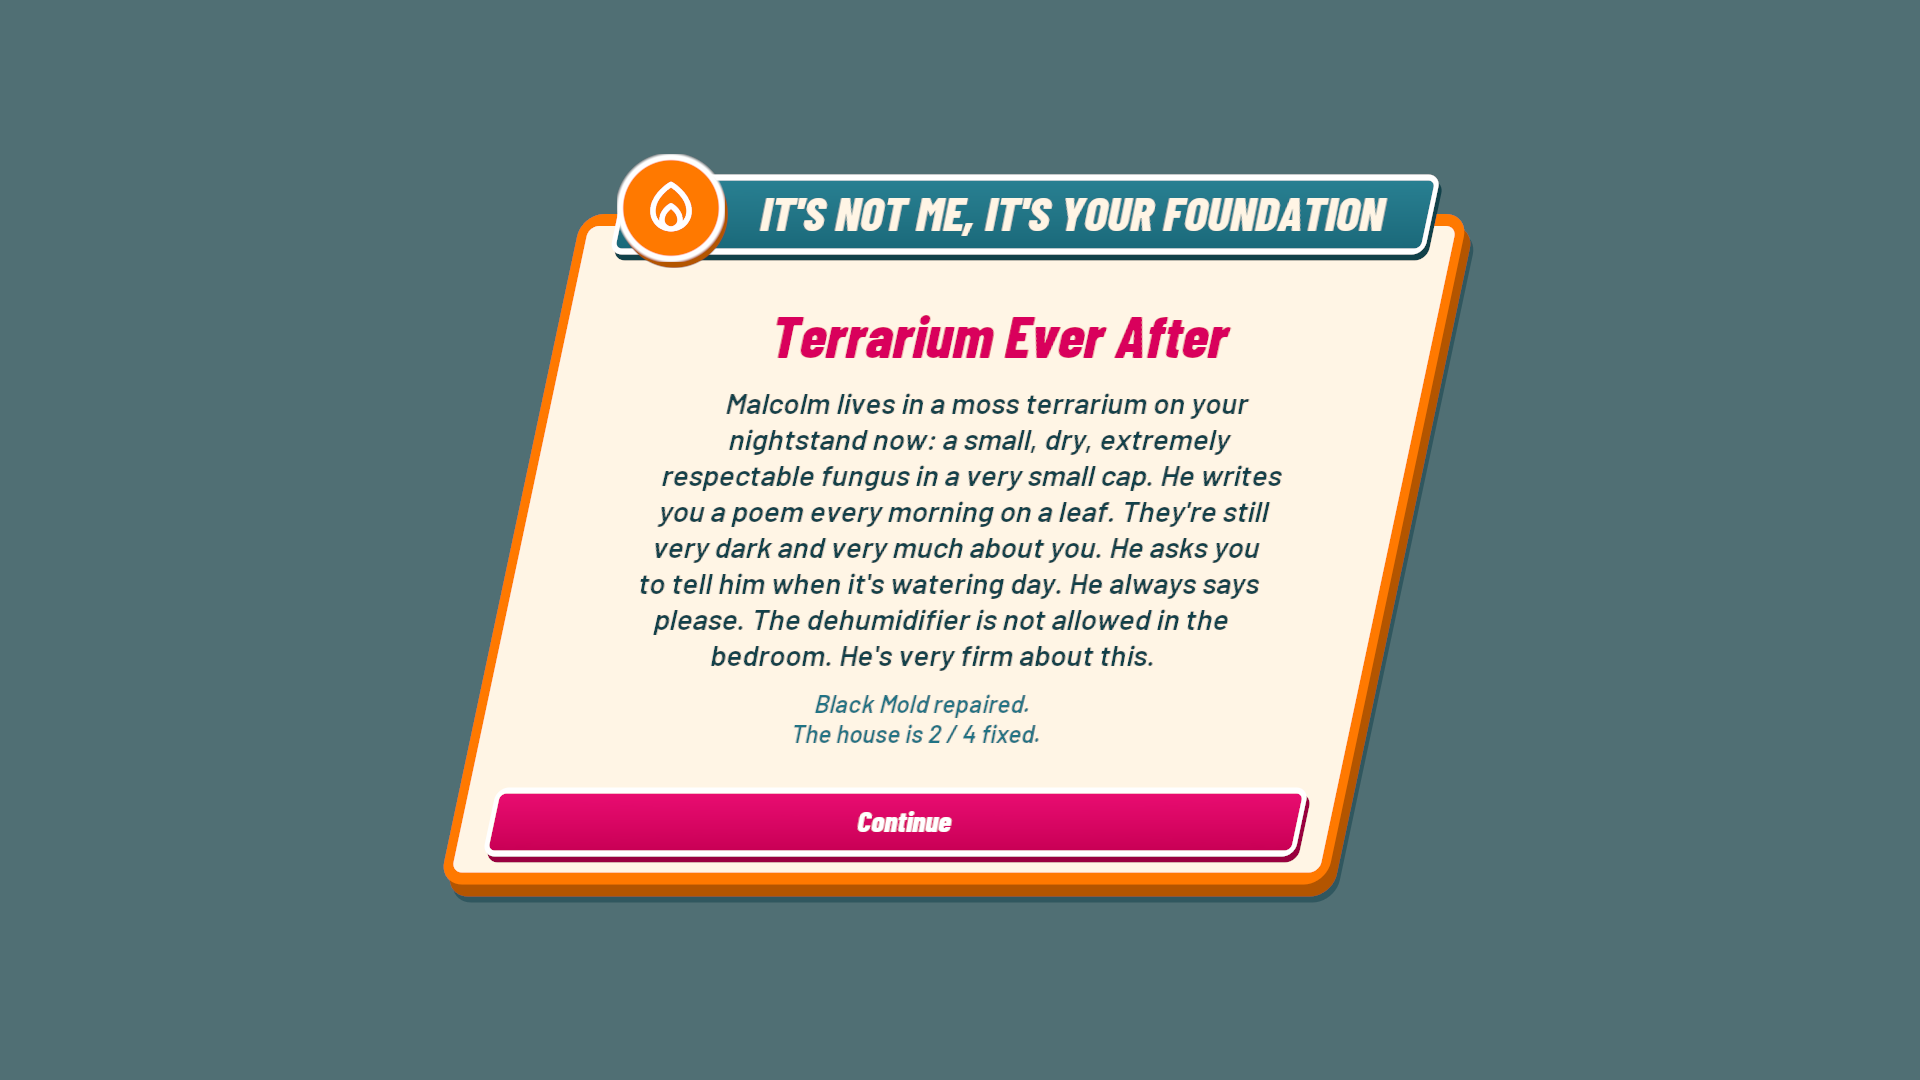
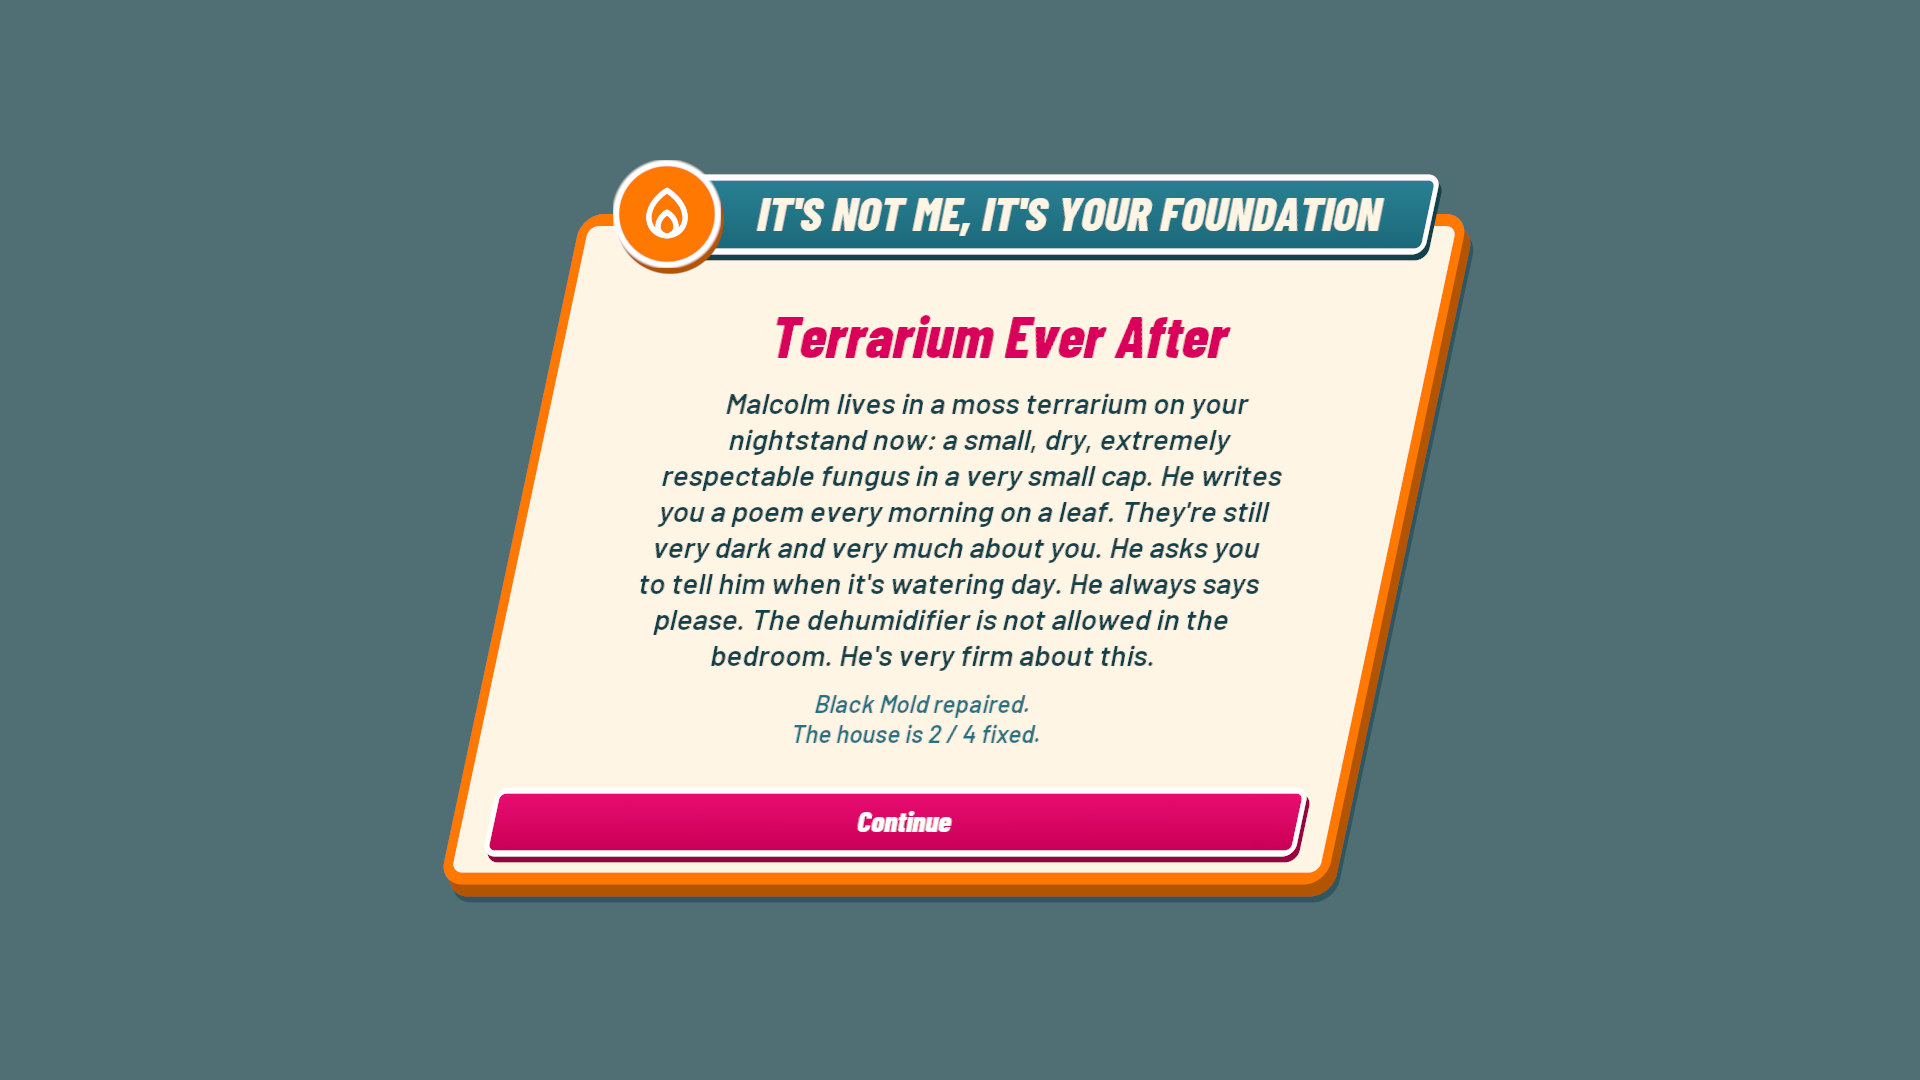
Ending badge: cover the plate's corner, centre it vertically
The plate starts 20 units in behind the badge and the badge leads 5 units
left, so the plate's bottom-left corner and extrusion are hidden. The
badge face is now centred on the plate face from the measured layout
(was 6.5 units high); measured within 0.5 units.

Changed region(s): [[0.3125, 0.1222, 0.7188, 0.275]]

diff --git a/Source/ICanFixHim/UI/FixHimUI.cpp b/Source/ICanFixHim/UI/FixHimUI.cpp
@@ -543,14 +543,19 @@ UWidget *UFixHimWidget::MakeHeaderedSurface(UBorder *Surface, const FString &Tit
 	Badge->SetVisibility(ESlateVisibility::Collapsed);
 	UOverlaySlot *BadgeSlot = PlateStack->AddChildToOverlay(Badge);
 	BadgeSlot->SetHorizontalAlignment(HAlign_Left);
-	BadgeSlot->SetVerticalAlignment(VAlign_Top);
-	// Face centre on the plate face's vertical centre and on its left edge at that height (12-degree lean).
-	const float PlateFaceH = 10 + Heading->GetFont().Size * 1.25f + 10;
-	BadgeSlot->SetPadding(FMargin(0, PlateFaceH * .5f - BadgeFace * .5f, 0, 0));
+	// Centre the badge face on the plate face (the plate's box minus its extrusion, measured by layout, so any text
+	// size holds): centring the badge's box, which also holds its extrusion offset, in a span Depth.Y taller than
+	// the face puts the face centre exactly on the plate face's centre.
+	BadgeSlot->SetVerticalAlignment(VAlign_Center);
+	BadgeSlot->SetPadding(FMargin(0, 0, 0, Extrusion - Depth.Y));
+	// For the slanted left edge only; a few units' error here moves the badge a fraction of a unit sideways.
+	const float PlateFaceH = 10 + Heading->GetFont().Size * 1.6f + 10;
 	FWidgetTransform BadgeTransform;
 	// Scaling about the face centre moves its left edge by Face/2 * (Scale - 1); undo that, then step onto the
 	// plate's left edge at mid-height.
-	BadgeTransform.Translation = FVector2D(PlateFaceH * .5f * Slant + BadgeFace * .5f * (HeaderBadgeScale - 1.f), 0);
+	BadgeTransform.Translation =
+	    FVector2D(PlateFaceH * .5f * Slant + BadgeFace * .5f * (HeaderBadgeScale - 1.f) - HeaderBadgeLead,
+	              HeaderBadgeDrop);
 	BadgeTransform.Scale = FVector2D(HeaderBadgeScale);
 	Badge->SetRenderTransform(BadgeTransform);
 	// Pivot on the face's centre (the overlay also holds the extrusion offset).
@@ -569,9 +574,15 @@ void UFixHimWidget::SetHeaderBadge(const FString &Icon, const FLinearColor &Fill
 	HeaderBadgeFace->SetBrush(Rounded(Fill, R, FLinearColor::White, FixHimDesign::ButtonBorder / HeaderBadgeScale));
 	HeaderBadgeFace->SetContent(FixHimDesign::Icon(WidgetTree, Icon, IconTint));
 	HeaderBadge->SetVisibility(ESlateVisibility::HitTestInvisible);
+	// The plate starts HeaderBadgePlateInset further in, so the badge covers its bottom-left corner and extrusion.
 	// Centre the title in the plate beside the badge, like the meter strip beside the dialogue name plate.
 	if (HeaderPlate)
-		HeaderPlate->SetPadding(FMargin(32 + 100, 10, 40, 10 + FixHimDesign::Extrusion));
+	{
+		if (auto *PlateSlot = Cast<UOverlaySlot>(HeaderPlate->Slot))
+			PlateSlot->SetPadding(FMargin(HeaderBadgePlateInset, 0, 0, 0));
+		const float BadgeRight = 108.f - HeaderBadgeLead - HeaderBadgePlateInset;
+		HeaderPlate->SetPadding(FMargin(BadgeRight + 24, 10, 40, 10 + FixHimDesign::Extrusion));
+	}
 }
 
 UWidget *UFixHimWidget::MakeHeaderedSurface(UBorder *Surface, UWidget *Header, const FMargin &Padding, float Inset)

diff --git a/Source/ICanFixHim/UI/FixHimUI.h b/Source/ICanFixHim/UI/FixHimUI.h
@@ -234,6 +234,10 @@ class ICANFIXHIM_API UFixHimWidget : public UUserWidget
 	UPROPERTY() TObjectPtr<UWidget> HeaderBadge;
 	/** Drawn size 56 * this = 108, the dialogue name plate's height. */
 	static constexpr float HeaderBadgeScale = 108.f / 56.f;
+	/** The badge starts this far left of the plate's edge, and the plate starts this far in, when a badge shows. */
+	static constexpr float HeaderBadgeLead = 5.f, HeaderBadgePlateInset = 20.f;
+	/** Measured residual: the layout-centred badge face drew 2.5 units above the plate face's centre (2026-11-13). */
+	static constexpr float HeaderBadgeDrop = 2.5f;
 	UPROPERTY() TObjectPtr<UBorder> HeaderBadgeFace;
 	UPROPERTY() TObjectPtr<UBorder> HeaderBadgeDepth;
 	UPROPERTY() TObjectPtr<UBorder> HeaderPlate;
